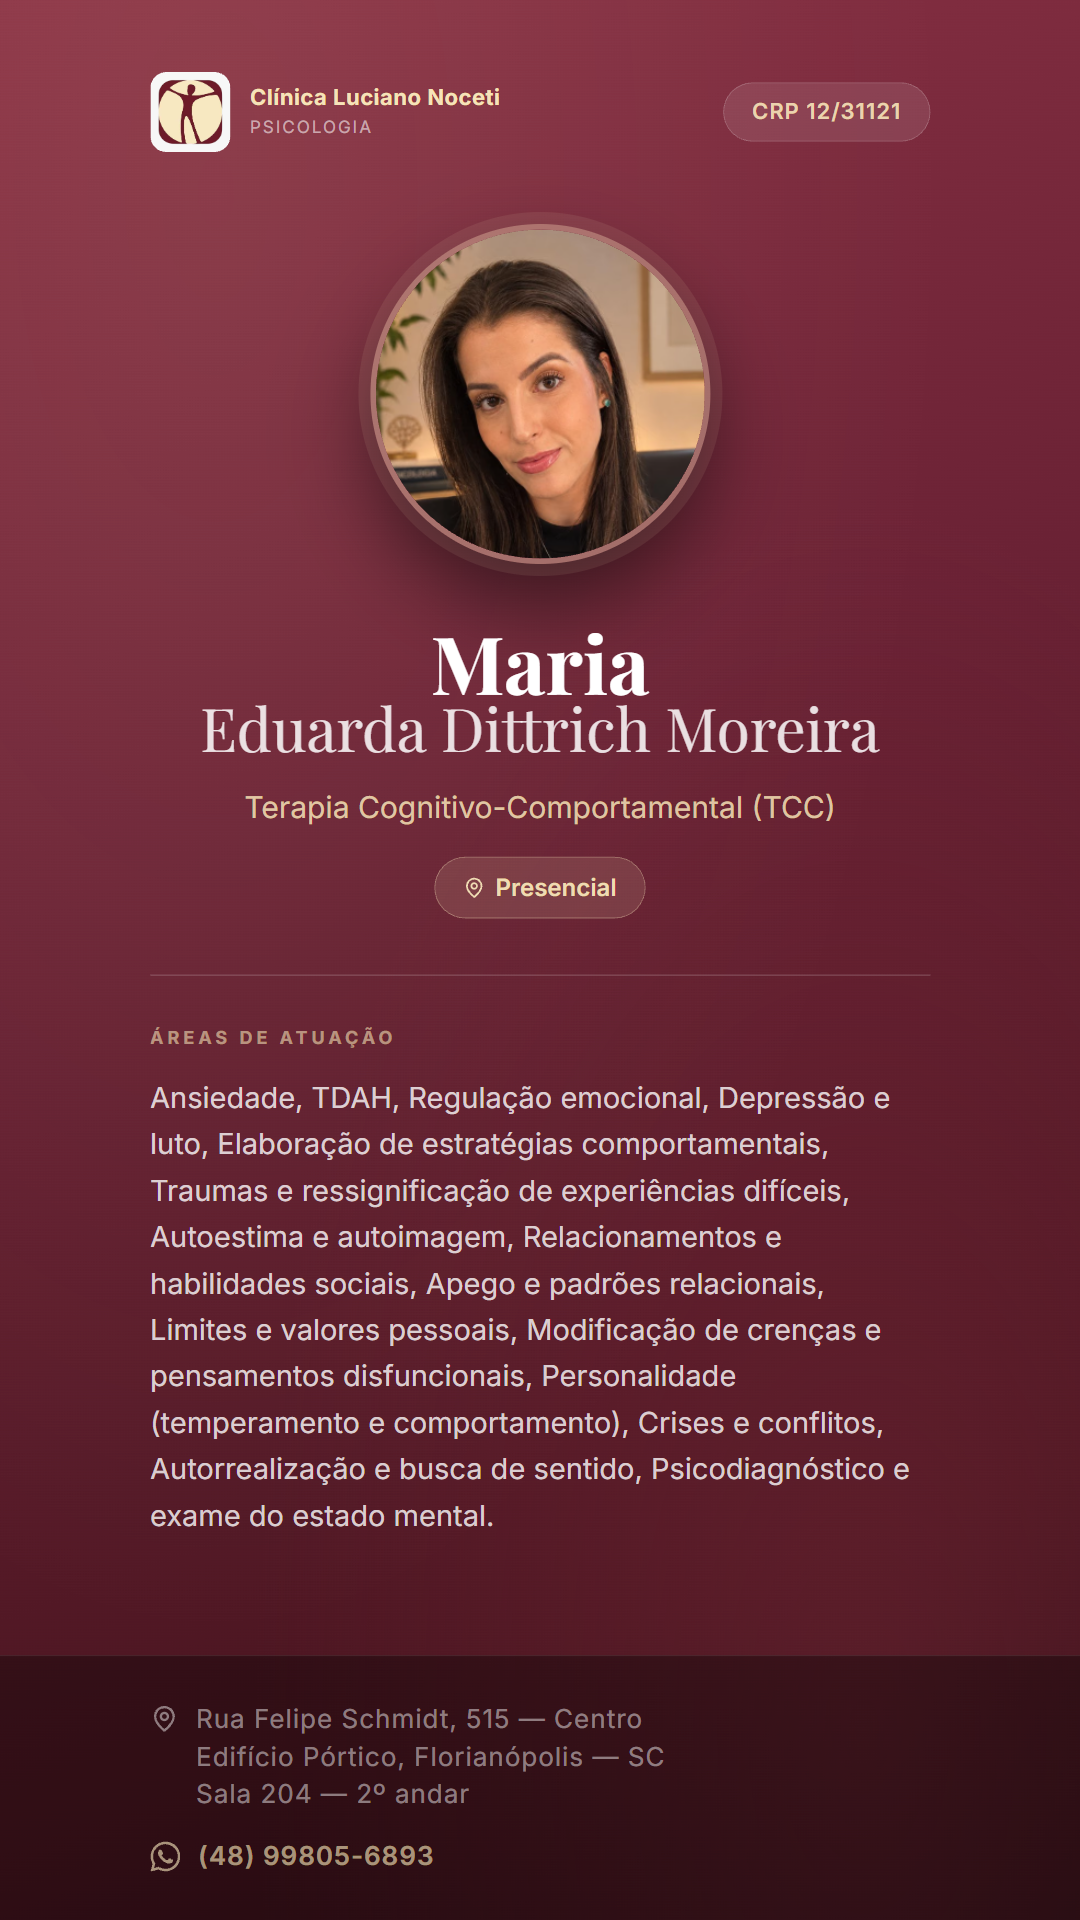
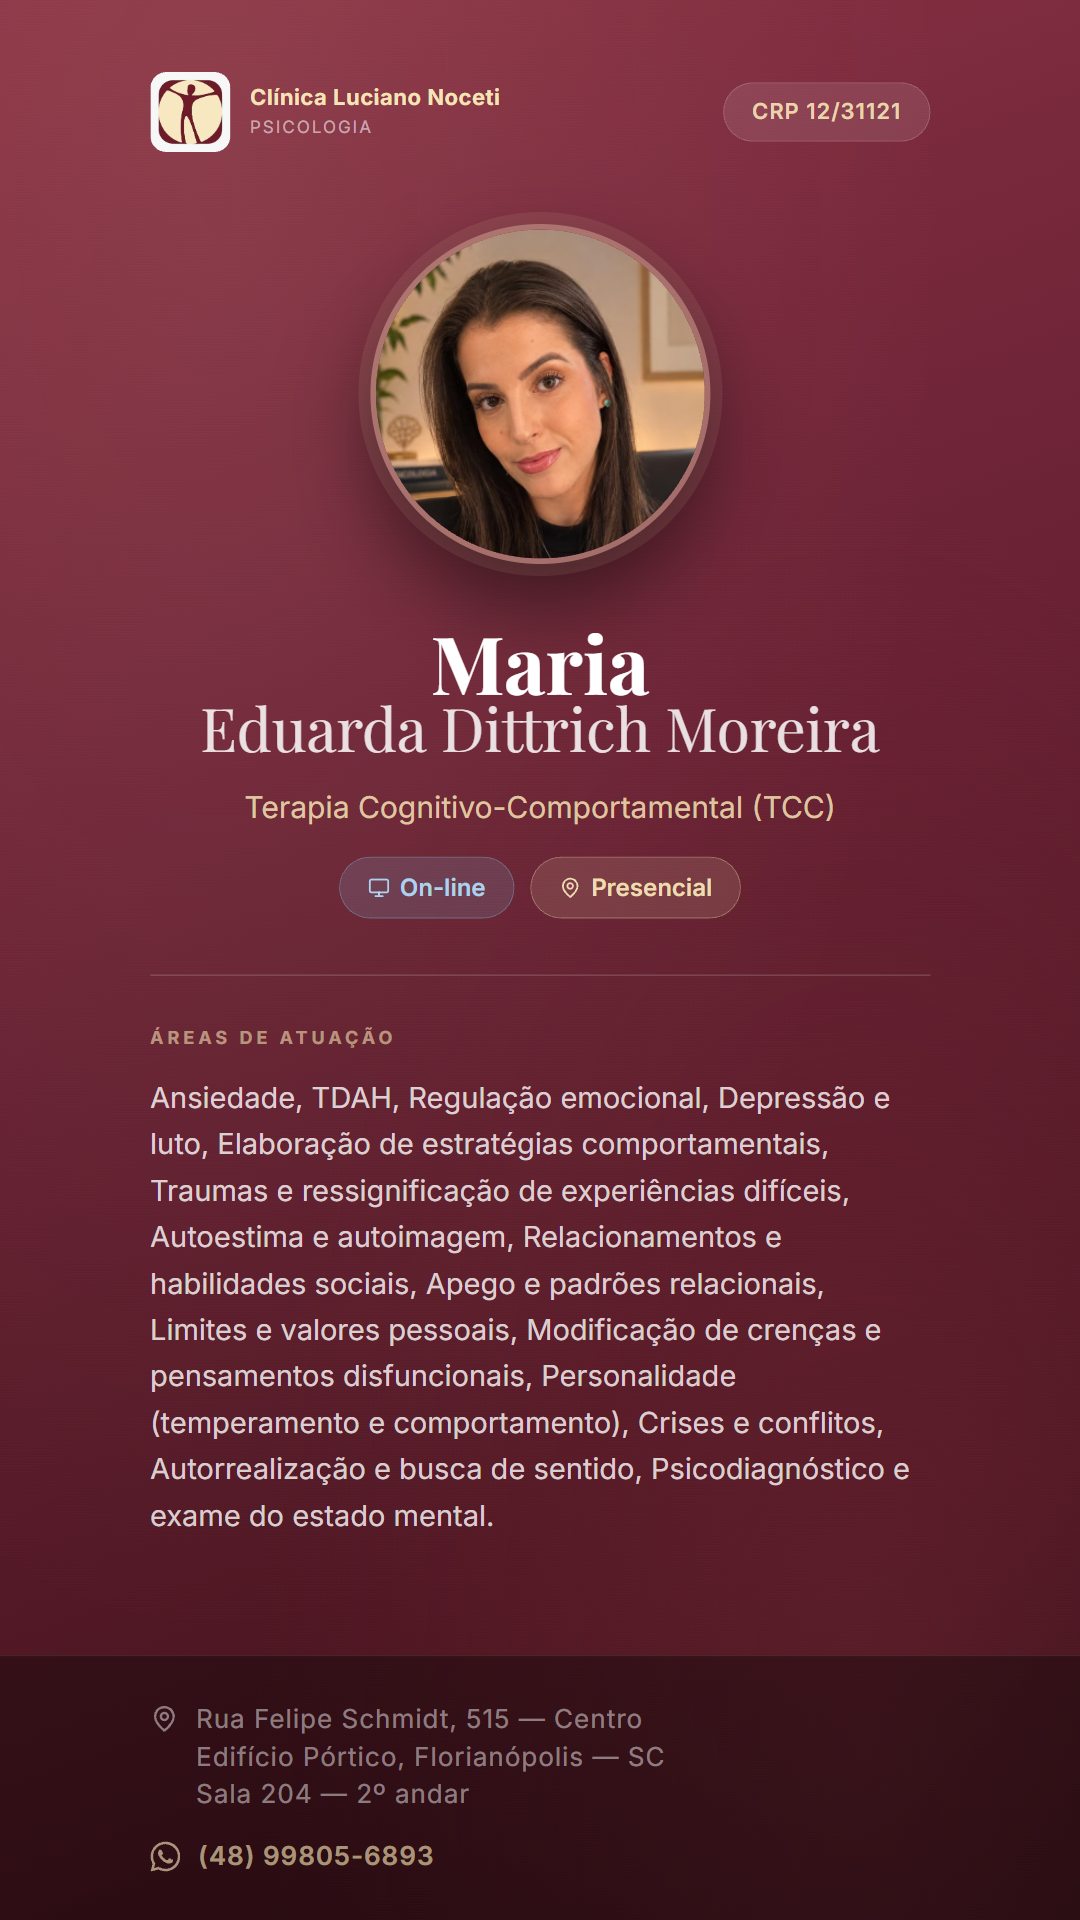
fix(equipe): Maria Eduarda Dittrich Moreira atende presencial e online
Card de Instagram regerado com os dois selos.

Changed region(s): [[0.3056, 0.4375, 0.7028, 0.5]]

diff --git a/lib/profissionais.ts b/lib/profissionais.ts
@@ -482,7 +482,7 @@ export const profissionais: Prof[] = [
     metodo: 'Terapia Cognitivo-Comportamental (TCC)',
     filtros: ['TCC'],
     formacao: 'Graduada em Psicologia pela Universidade do Vale do Itajaí (UNIVALI), Campus Balneário Camboriú; Pós-graduanda em Psicologia Clínica pela Faculdade Mar Atlântico; Curso de Formação Continuada em Psicologia e Terapia Cognitivo-Comportamental (200 horas) pela JT Psicologia; Curso de Formação para atuação como terapeuta pelo CIM - Certificação Ítalo Marsili.',
-    publico: 'Atende Adolescentes a partir de 13 anos, Adultos e Idosos. Atendimento Presencial.',
+    publico: 'Atende Adolescentes a partir de 13 anos, Adultos e Idosos. Atendimento Presencial e On-line.',
     demandas: 'Ansiedade, TDAH, Regulação emocional, Depressão e luto, Elaboração de estratégias comportamentais, Traumas e ressignificação de experiências difíceis, Autoestima e autoimagem, Relacionamentos e habilidades sociais, Apego e padrões relacionais, Limites e valores pessoais, Modificação de crenças e pensamentos disfuncionais, Personalidade (temperamento e comportamento), Crises e conflitos, Autorrealização e busca de sentido, Psicodiagnóstico e exame do estado mental.',
     atendimento: 'Unimed, Cartão Acesso + Fácil (Unimed), Saudesc, Celos, Elo saúde, Abepom, Casacaresc, Sc Saúde, Sim Saúde, Geap, Fusex, Petrobras, Saúde Caixa, Sidesc e Particular.',
     foto: '/equipe/mariaeduarda_psico.avif',
